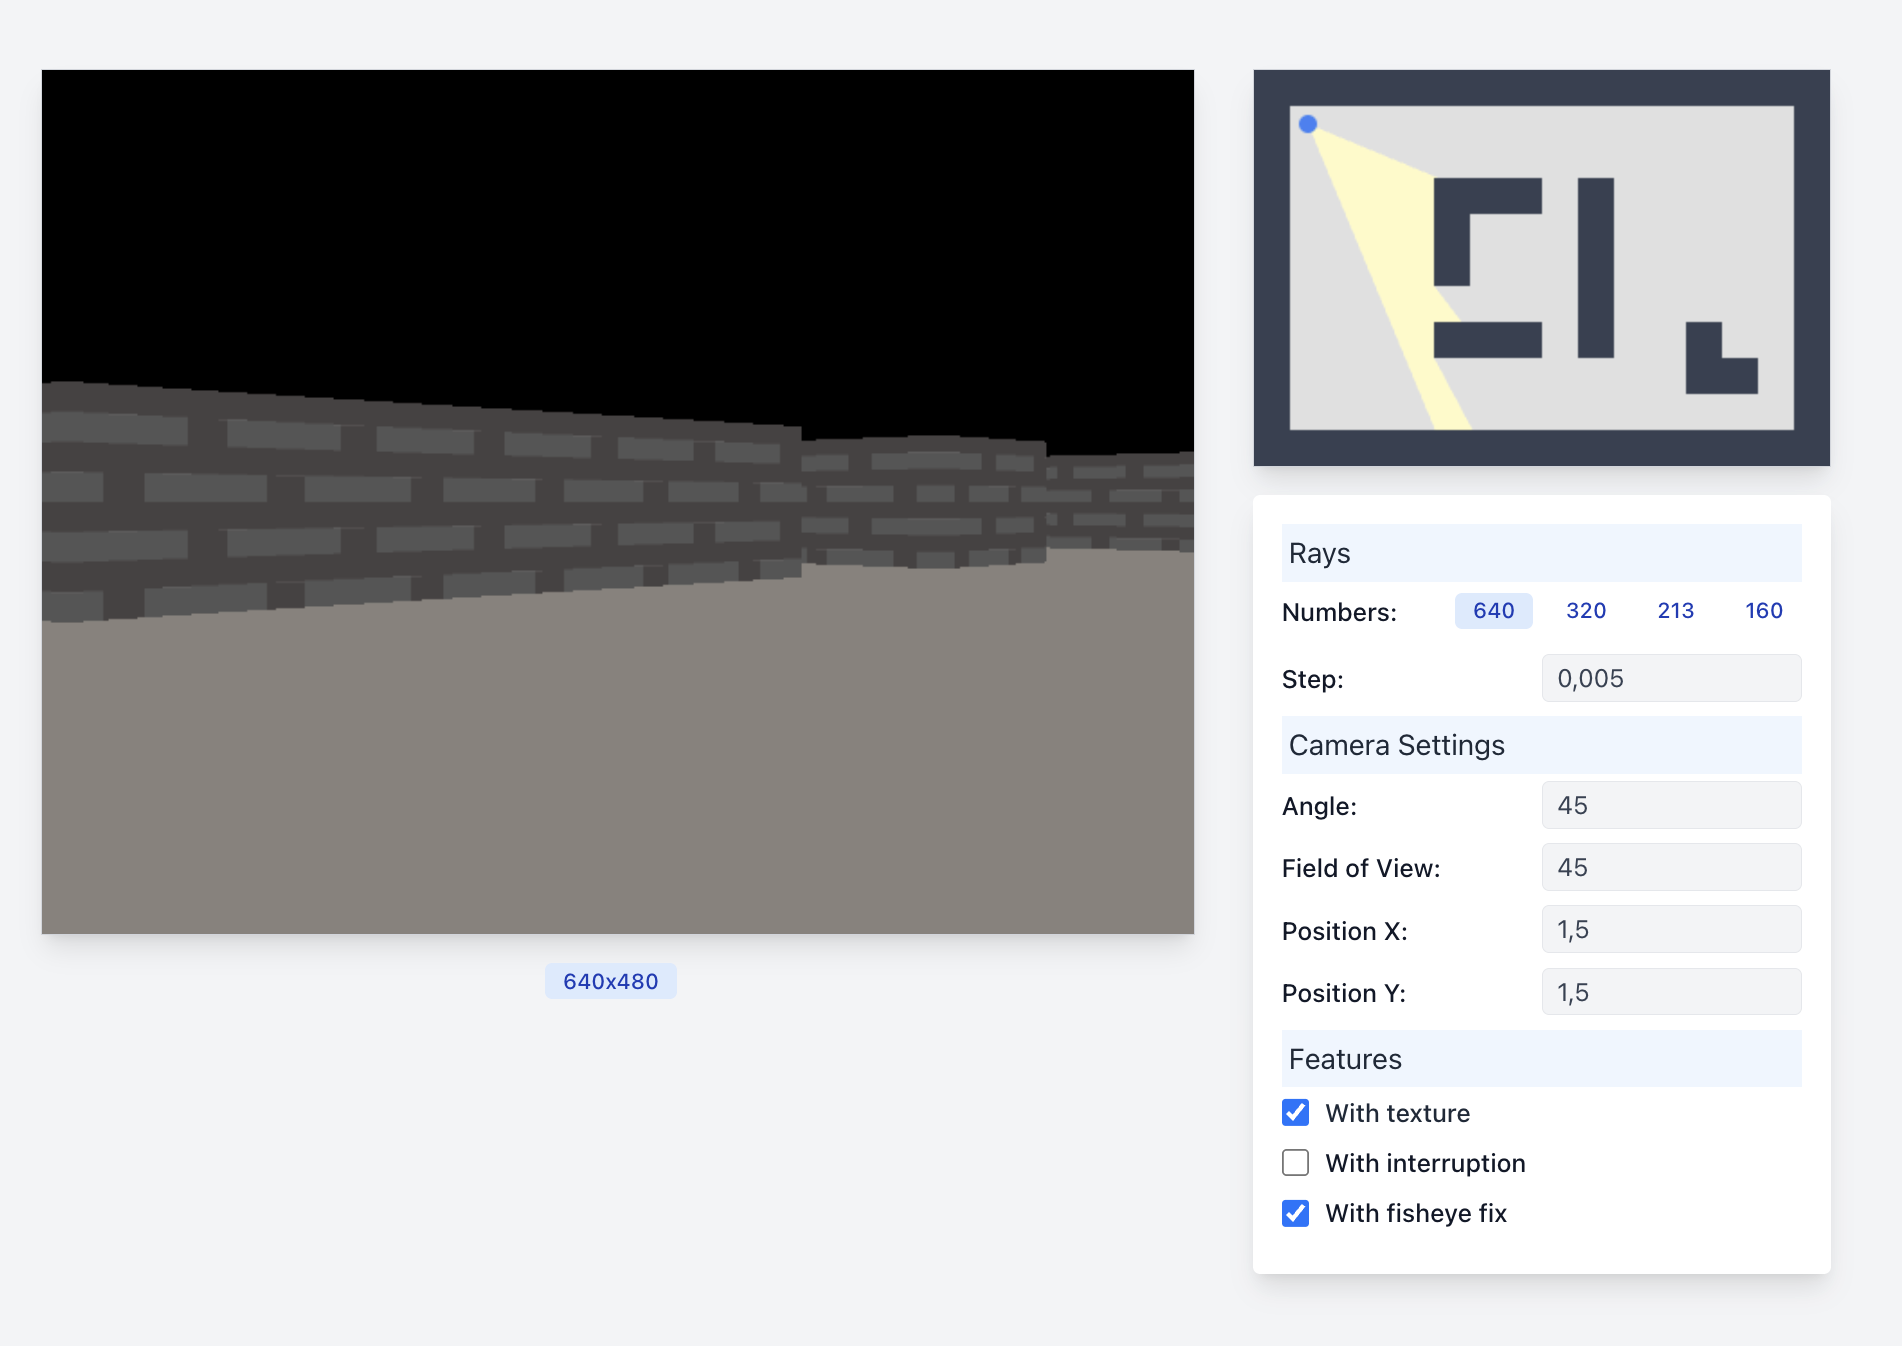
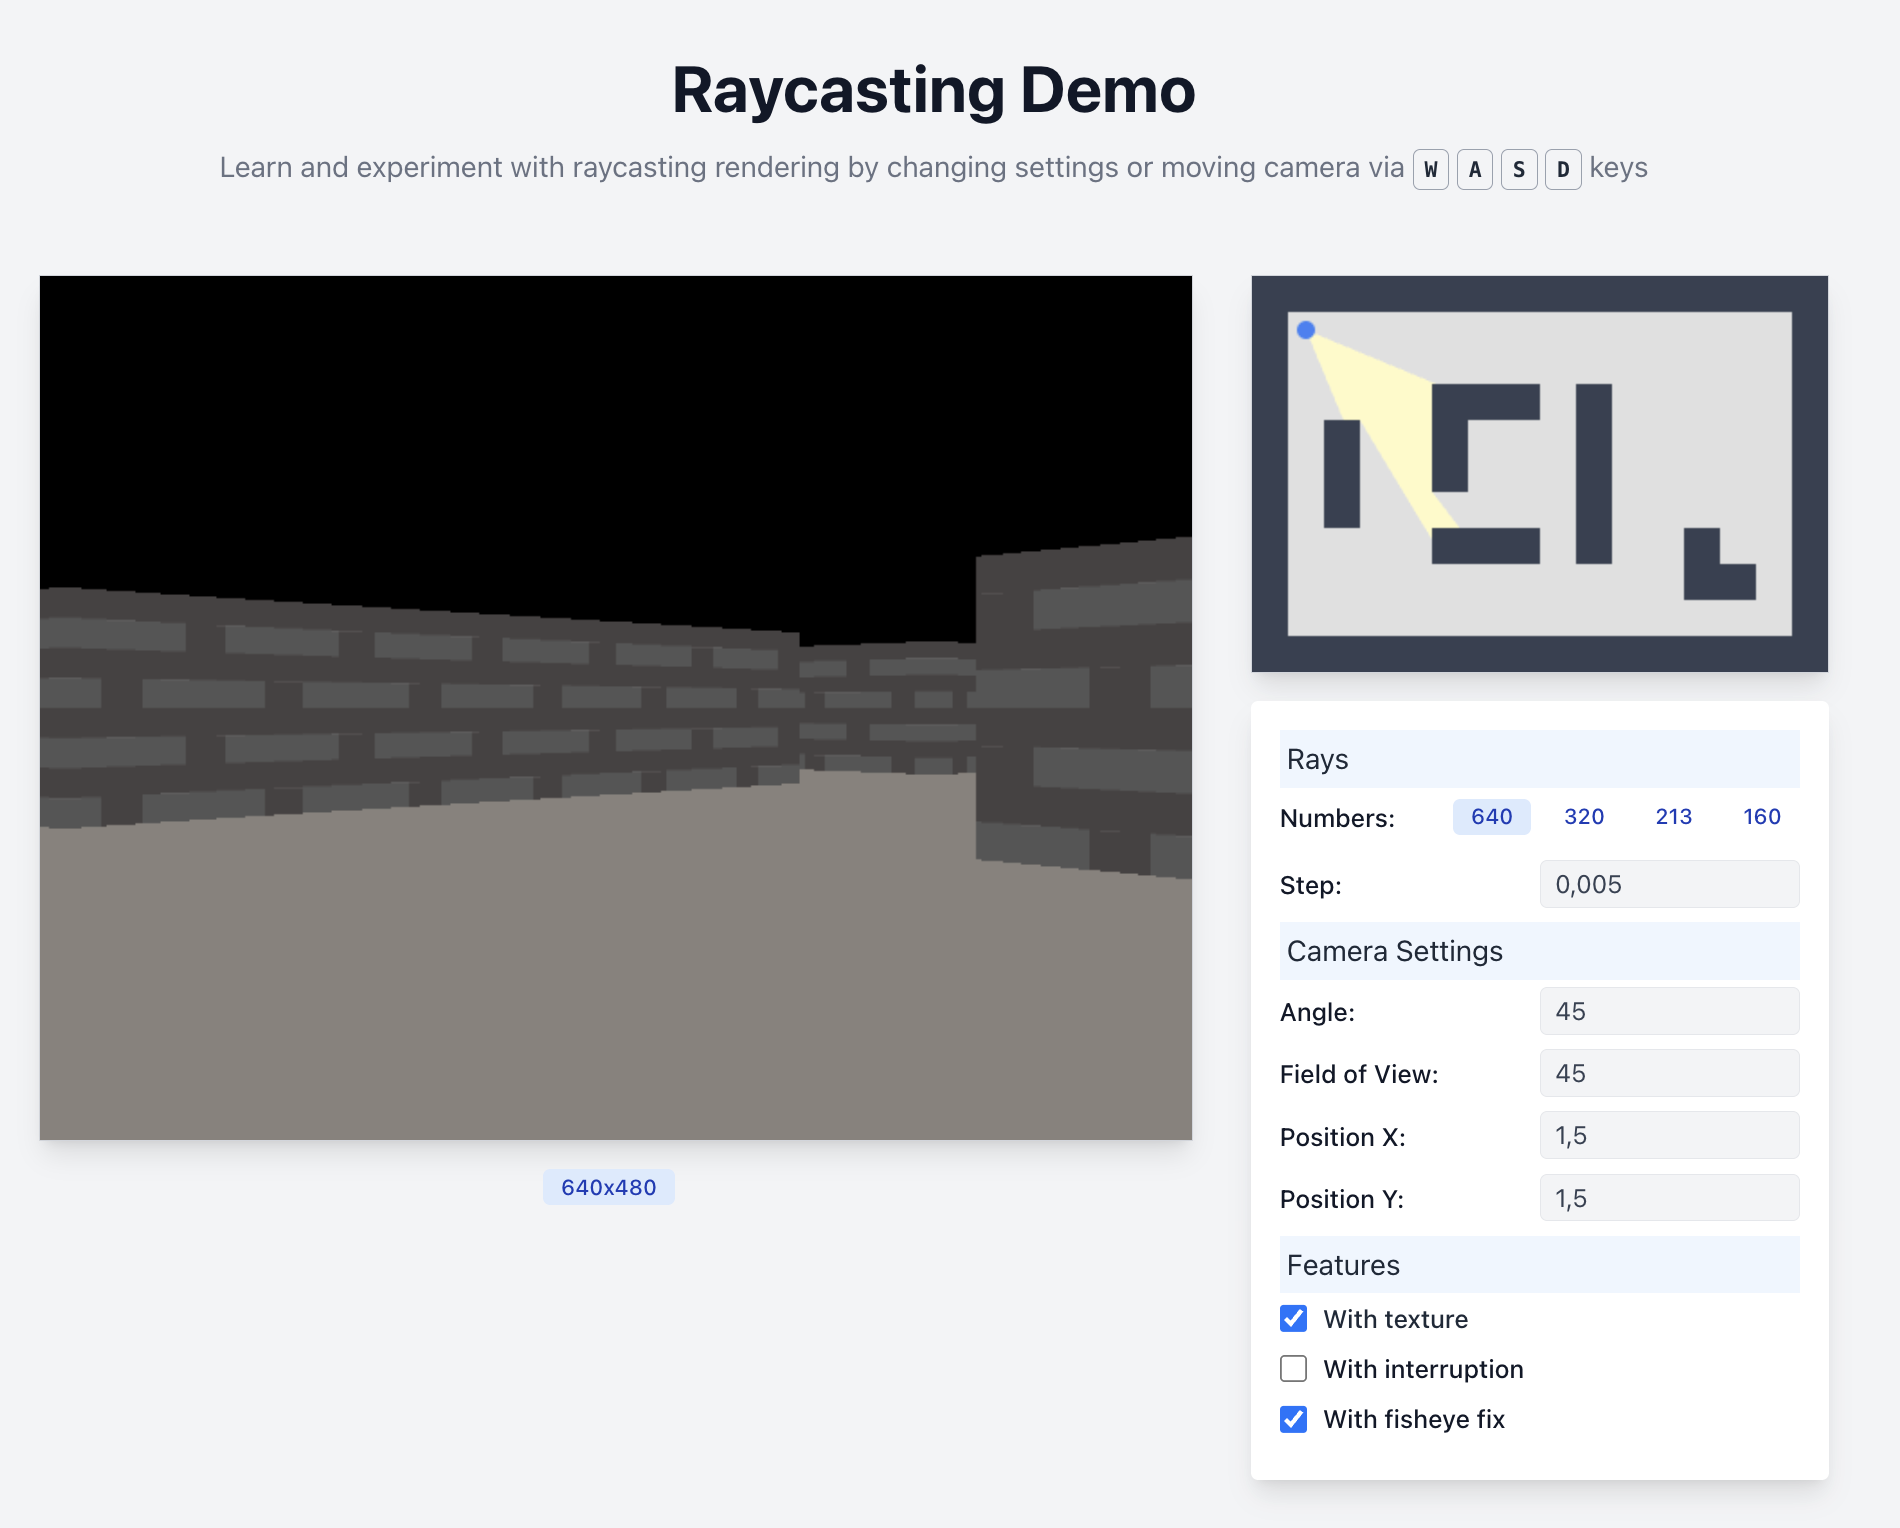
feat: implement vision

diff --git a/src/components/Renderer25D.tsx b/src/components/Renderer25D.tsx
@@ -7,9 +7,7 @@ import {
   SCREEN_HEIGHT,
   SCREEN_WIDTH,
   RAYCASTING_REDNERING_TIME,
-  map,
 } from "../data";
-import { degreeToRadians } from "../lib/math";
 import { calculateRays } from "../lib/raycasting";
 
 async function time(ms: number) {
@@ -61,7 +59,7 @@ async function draw(ctx: CanvasRenderingContext2D, settings: Settings) {
     const ray = rays[i];
     for (let j = 0; j < incrementWidth; j++) {
       const wallHeight = Math.floor(SCREEN_HEIGHT / 2 / ray.distance);
-      const texture = textures[0];
+      const texture = textures[ray.wall - 1];
       const texturePositionX = Math.floor(
         (texture.width * (ray.x + ray.y)) % texture.width
       );

diff --git a/src/data.ts b/src/data.ts
@@ -20,9 +20,9 @@ export const map = [
   [1, 0, 0, 0, 0, 0, 0, 0, 0, 0, 0, 0, 0, 0, 0, 1],
   [1, 0, 0, 0, 0, 0, 0, 0, 0, 0, 0, 0, 0, 0, 0, 1],
   [1, 0, 0, 0, 0, 1, 1, 1, 0, 1, 0, 0, 0, 0, 0, 1],
-  [1, 0, 0, 0, 0, 1, 0, 0, 0, 1, 0, 0, 0, 0, 0, 1],
-  [1, 0, 0, 0, 0, 1, 0, 0, 0, 1, 0, 0, 0, 0, 0, 1],
-  [1, 0, 0, 0, 0, 0, 0, 0, 0, 1, 0, 0, 0, 0, 0, 1],
+  [1, 0, 1, 0, 0, 1, 0, 0, 0, 1, 0, 0, 0, 0, 0, 1],
+  [1, 0, 1, 0, 0, 1, 0, 0, 0, 1, 0, 0, 0, 0, 0, 1],
+  [1, 0, 1, 0, 0, 0, 0, 0, 0, 1, 0, 0, 0, 0, 0, 1],
   [1, 0, 0, 0, 0, 1, 1, 1, 0, 1, 0, 0, 1, 0, 0, 1],
   [1, 0, 0, 0, 0, 0, 0, 0, 0, 0, 0, 0, 1, 1, 0, 1],
   [1, 0, 0, 0, 0, 0, 0, 0, 0, 0, 0, 0, 0, 0, 0, 1],

diff --git a/src/lib/raycasting.ts b/src/lib/raycasting.ts
@@ -4,6 +4,7 @@ import { degreeToRadians } from "./math";
 interface Ray {
   x: number;
   y: number;
+  wall: number;
   distance: number;
 }
 
@@ -21,6 +22,7 @@ export function calculateRays(settings: Settings): Ray[] {
       x: camera.x,
       y: camera.y,
       distance: 0,
+      wall: -1,
     };
 
     const rayCos = Math.cos(degreeToRadians(rayAngle)) * settings.rayStep;
@@ -44,6 +46,7 @@ export function calculateRays(settings: Settings): Ray[] {
 
     rayAngle += incrementAngle;
     ray.distance = distance;
+    ray.wall = wall;
     rays.push(ray);
   }
 
